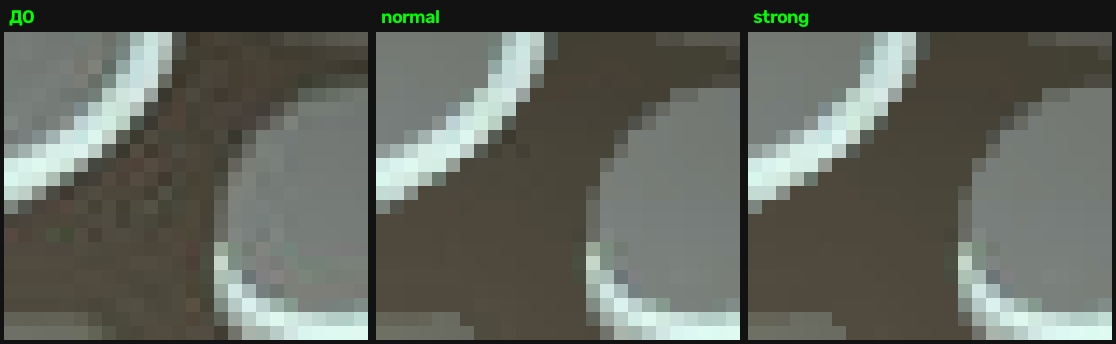
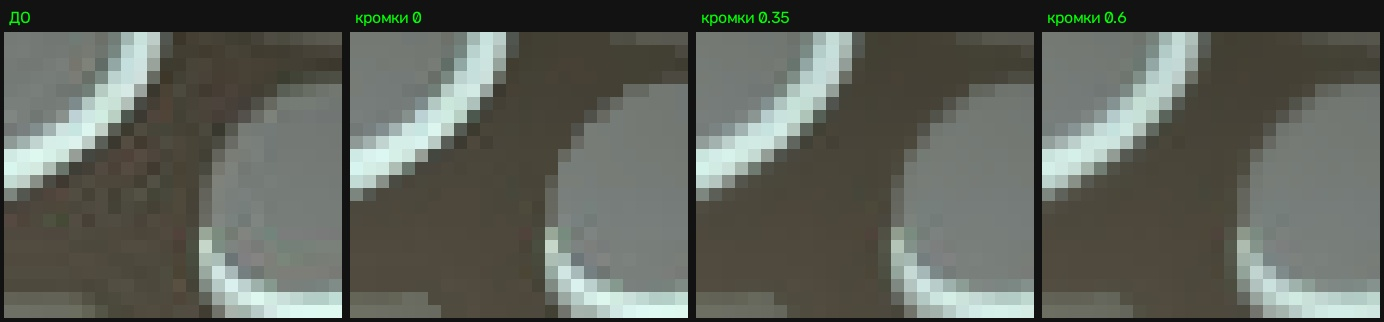
clean_icon: soften edge band after fill cleanup; default preset soft

diff --git a/tools/clean_icon.py b/tools/clean_icon.py
@@ -54,14 +54,14 @@ def edge_band(L: np.ndarray, lo: float = 11.0, hi: float = 30.0) -> np.ndarray:
 
 # ---------------------------------------------------------------------- presets
 PRESETS = {
-    # сильная защита: чистим только глубокие заливки
-    "gentle": dict(it=1, sp=2, sr=10, amp=28, ramp=7, dil=2),
-    # по умолчанию: заливки выравниваются, детали не сдвигаются (Δ ≤ 2)
-    "normal": dict(it=2, sp=2, sr=10, amp=25, ramp=6, dil=1),
-    # чуть сильнее по заливкам
-    "strong": dict(it=3, sp=2, sr=10, amp=25, ramp=6, dil=1),
-    # максимум: защита минимальна
-    "max":    dict(it=3, sp=2, sr=10, amp=20, ramp=5, dil=0),
+    # по умолчанию: заливки чистые, кромки чуть смягчены (без «острого» вида)
+    "soft":     dict(it=2, sp=2, sr=10, amp=25, ramp=6, dil=2, feather=0.6, soft=0.35),
+    # кромки почти как в исходнике, чистка ближе к контурам
+    "normal":   dict(it=2, sp=2, sr=10, amp=25, ramp=6, dil=1, feather=0.4, soft=0.35),
+    # сильнее по заливкам, кромки максимально жёсткие
+    "strong":   dict(it=3, sp=2, sr=10, amp=20, ramp=5, dil=0, feather=0.4, soft=0.0),
+    # максимум: без защиты, без смягчения
+    "max":      dict(it=3, sp=2, sr=10, amp=18, ramp=4, dil=0, feather=0.0, soft=0.0),
 }
 
 
@@ -123,7 +123,8 @@ def fill_mask(L: np.ndarray, lo: float = 10.0, hi: float = 22.0,
 
 
 def guard_mask(L: np.ndarray, amp: float = 25.0, ramp: float = 6.0,
-               dil: int = 1, smooth: float = 1.5) -> np.ndarray:
+               dil: int = 1, feather: float = 0.5,
+               smooth: float = 1.5) -> np.ndarray:
     """1 = защищённая зона (кромки, тонкие линии, полутоновые переходы).
 
     Детектор двойной, иначе шум и рисунок не разделить:
@@ -140,10 +141,29 @@ def guard_mask(L: np.ndarray, amp: float = 25.0, ramp: float = 6.0,
     p = ((h1 > amp) | (h2 > ramp)).astype(np.uint8)
     if dil:
         p = cv2.dilate(p, np.ones((2 * dil + 1, 2 * dil + 1), np.uint8))
-    return p.astype(np.float32)
+    p = p.astype(np.float32)
+    if feather:                       # мягкий край зоны — без видимого стыка
+        p = cv2.GaussianBlur(p, (0, 0), feather)
+    return p
 
 
-def clean_fill(img: np.ndarray, preset: str = "normal") -> np.ndarray:
+def soften_edges(img: np.ndarray, k: float = 0.5, band: int = 1,
+                 sigma: float = 0.7) -> np.ndarray:
+    """Лёгкое сглаживание ТОЛЬКО в полосе кромок: убирает «острую» иглу
+    контура после чистки, заливки и детали внутри не затрагивает."""
+    if k <= 0:
+        return img
+    g = cv2.cvtColor(img, cv2.COLOR_BGR2GRAY).astype(np.float32)
+    m = (_edges(g) > 14).astype(np.uint8)
+    if band:
+        m = cv2.dilate(m, np.ones((2 * band + 1, 2 * band + 1), np.uint8))
+    m = cv2.GaussianBlur(m.astype(np.float32), (0, 0), 0.8) * float(k)
+    f = img.astype(np.float32)
+    blur = cv2.GaussianBlur(f, (0, 0), sigma)
+    return np.clip(f + (blur - f) * m[..., None], 0, 255).astype(np.uint8)
+
+
+def clean_fill(img: np.ndarray, preset: str = "soft") -> np.ndarray:
     """Mean shift по LAB: шум на заливках «схлопывается» в один тон, кромки
     остаются резкими (режим берётся по моде, а не среднее). Затем результат
     подмешивается ТОЛЬКО вне защищённой зоны — пиксели кромок, тонких линий и
@@ -156,12 +176,13 @@ def clean_fill(img: np.ndarray, preset: str = "normal") -> np.ndarray:
     L0 = lab8[..., 0].astype(np.float32)
     A0 = lab8[..., 1].astype(np.float32)
     B0 = lab8[..., 2].astype(np.float32)
-    w = 1.0 - guard_mask(L0, p["amp"], p["ramp"], int(p["dil"]))
+    w = 1.0 - guard_mask(L0, p["amp"], p["ramp"], int(p["dil"]), float(p["feather"]))
     Lm, Am, Bm = (cur[..., i].astype(np.float32) for i in range(3))
     out = np.stack([L0 + (Lm - L0) * w,
                     A0 + (Am - A0) * w,
                     B0 + (Bm - B0) * w], -1)
-    return cv2.cvtColor(np.clip(out, 0, 255).astype(np.uint8), cv2.COLOR_LAB2BGR)
+    res = cv2.cvtColor(np.clip(out, 0, 255).astype(np.uint8), cv2.COLOR_LAB2BGR)
+    return soften_edges(res, float(p.get("soft", 0.0)))
 
 
 def clean_preset(img: np.ndarray, preset: str = "normal") -> np.ndarray:
@@ -236,12 +257,14 @@ def main() -> int:
     ap = argparse.ArgumentParser(description="Чистка иконок от JPEG-шума")
     ap.add_argument("images", nargs="+")
     ap.add_argument("-o", "--out", default=None)
-    ap.add_argument("--preset", default="normal", choices=sorted(PRESETS),
+    ap.add_argument("--preset", default="soft", choices=sorted(PRESETS),
                     help="готовый режим чистки (по умолчанию normal)")
     ap.add_argument("--protect", type=int, default=None,
                     help="ширина защитной зоны вокруг деталей в px (0..3)")
     ap.add_argument("--iters", type=int, default=None,
                     help="сколько проходов mean shift (1..4)")
+    ap.add_argument("--soft-edges", type=float, default=None,
+                    help="смягчение кромок 0..1 (0 — жёсткие)")
     ap.add_argument("--chroma", type=float, default=1.0, help="сила чистки цвета 0..2")
     ap.add_argument("--luma", type=float, default=0.8, help="сила чистки яркости 0..2")
     ap.add_argument("--edge-thr", type=float, default=10.0)
@@ -254,12 +277,15 @@ def main() -> int:
         img = cv2.imread(src)
         if img is None:
             raise SystemExit(f"не читается: {src}")
-        if args.protect is not None or args.iters is not None:
+        if args.protect is not None or args.iters is not None or args.soft_edges is not None:
             p = dict(PRESETS[args.preset])
             if args.protect is not None:
                 p["dil"] = args.protect
+                p["feather"] = 0.6 if args.protect >= 2 else 0.4
             if args.iters is not None:
                 p["it"] = args.iters
+            if args.soft_edges is not None:
+                p["soft"] = args.soft_edges
             PRESETS["_custom"] = p
             res = clean_fill(img, "_custom")
         else:

diff --git a/tools/README.md b/tools/README.md
@@ -105,30 +105,29 @@ python3 tools/clean_icon.py in.png -o out.png --chroma 1.0 --luma 0.8
 Как чистится (`clean_fill`):
 
 1. **Mean shift по LAB** — каждый пиксель тянется к моде своего окружения:
-   шум на заливке «схлопывается» в один тон, а кромка остаётся резкой
-   (в отличие от размытия, которое усредняет и мылит).
-2. **Защитная зона `guard_mask()`** — результат подмешивается только туда, где
-   нет рисунка. Детектор двойной, иначе шум и деталь не разделить:
-   `amp` — амплитуда мелкой структуры по сырой яркости (линия/кромка 25+,
-   шум 3..10), `ramp` — то же по сглаженной яркости (шум гаснет до ±3, а мягкий
-   полутоновой переход виден). Деталь = сработал любой критерий.
-3. **Гарантия сохранности**: на пикселях структуры отличие от исходника
-   **≤ 2 из 255**, 57 % таких пикселей не меняются вообще.
+   шум на заливке «схлопывается» в один тон, кромка остаётся резкой.
+2. **Защитная зона `guard_mask()`** — результат подмешивается только там, где
+   нет рисунка. Детектор двойной: `amp` — амплитуда мелкой структуры по сырой
+   яркости (линия/кромка 25+, шум 3..10), `ramp` — то же по сглаженной яркости
+   (шум гаснет до ±3, а мягкий переход виден). Деталь = сработал любой критерий.
+3. **`soften_edges()`** — лёгкое сглаживание ТОЛЬКО в полосе кромок, чтобы
+   после чистки контур не выглядел «иглой». Заливки и внутренние детали не
+   затрагиваются. Сила — `--soft-edges 0..1` (0 — кромки жёсткие, 1 — мягкие).
 
-Режимы: `gentle` (защита 2 px, один проход), **`normal` (по умолчанию)**,
-`strong` (3 прохода — заливки глаже), `max` (защита 0 px). Крутилки:
-`--protect 0..3` (ширина защиты), `--iters 1..4` (проходы).
+Режимы: **`soft` (по умолчанию)**, `normal`, `strong`, `max`. Крутилки:
+`--protect 0..3` (ширина защитной зоны), `--iters 1..4` (проходы),
+`--soft-edges 0..1` (мягкость кромок).
 
-| метрика | до | normal | strong |
+| метрика | до | soft | soft с `--soft-edges 0` |
 |---|---|---|---|
-| шум на заливках | 1.29 | **0.56** | 0.43 |
-| цветной шум a/b | 0.31 | 0.16 | 0.14 |
-| звон у контуров | 3.12 | 2.71 | 2.70 |
-| уход деталей (Δ из 255) | 0 | **≤2** | **≤2** |
-| резкость контуров | 61.2 | 66.2 | 66.9 |
+| шум на заливках | 1.29 | **0.54** | 0.68 |
+| цветной шум a/b | 0.31 | 0.19 | 0.17 |
+| резкость контуров | 61.2 | 58.2 (мягче) | 65.2 |
+| звон у контуров | 3.12 | 2.92 | 2.72 |
 
 Сравнения: `samples/icon_clean_compare.jpg` (вся иконка) и
-`samples/icon_clean_zoom.jpg` (заливка между глазами, ×14).
+`samples/icon_clean_zoom.jpg` (заливка между глазами, ×13, с силой смягчения
+0 / 0.35 / 0.6).
 
 ## Нарезка иконок с обводкой
 
